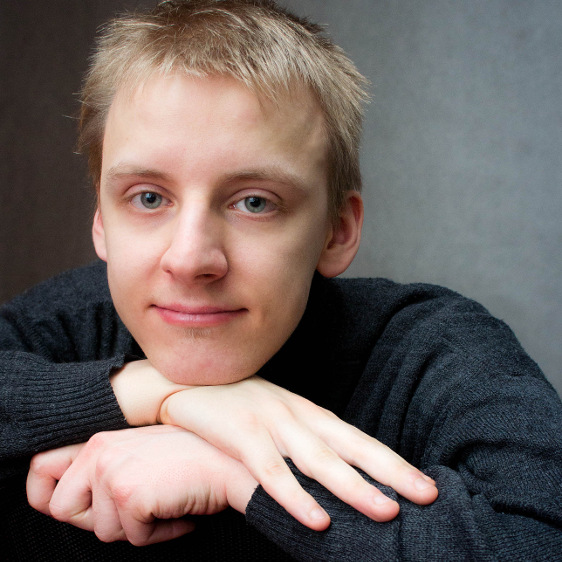
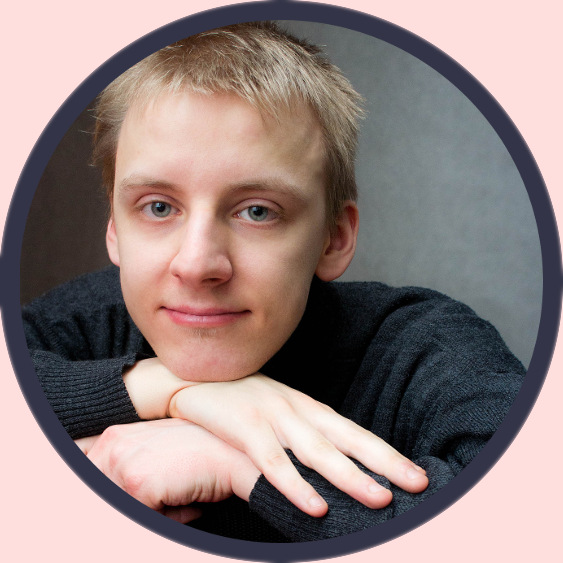
updates

diff --git a/src/index.html b/src/index.html
@@ -51,22 +51,23 @@
     <div class='about-us'>
       <div class='container'>
           <h2 class='title right'><span class='first'>A</span>bout the <span class='second'>e</span>vent</h2>
-          <p>Monadic Party is a five-days long festival of Haskell learning and teaching. Our vision is to teach in depth, in a way impossible at a conference. Because of the additional time at our disposal we can get deeper into each topic than just a usual talk slot to show not only the surface but a larger part of the story behind the subject. The size will be limited and capped at fifty attendees to ensure a good learning experience.</p>
+          <p>Monadic Party is a five-days long Haskell summer school. Our vision is to teach in depth with each talk spanning multiple sessions. Because of the additional time at our disposal we can get deeper into each topic to show a larger part of the story behind the subject. The size will be capped at fifty attendees to provide you with a good learning experience.</p>
 
-          <p>We will have two tracks, one for programmers that aren't experienced in Haskell and would like to learn it from the basic concepts. We will show you the language over the course of the five days, intensly and in depth. The other track is for people already familiar with the language and will present a selection of talks and workshops on a variety of topics. The final talk titles will be announced after our call for speakers closes at the end of Febuary.</p>
+          <p>We will have two tracks, one for programmers that aren't experienced in Haskell and would like to learn it from the basic concepts. The other track is for people already familiar with the language and will present a selection of talks and workshops on a variety of topics. We will announce the list of topics after our call for speakers closes at the end of Febuary.</p>
 
-          <p>By organizing it in Poznan we can keep the ticket cost at a low level for such a long event, while having the school in a beautiful city with a great nightlife and a lot of things to do. The venue is a gorgeous recently restored old building at <a href='http://mlynska12.pl/' target='_blank'>Młyńska 12</a> where we have the whole highest floor at our disposal. So the only thing you need is a ticket, laptop and a place to sleep and you're good to go. Catered lunch and tea or coffee is included in the ticket price.</p>
+          <p>We chose Poznan to host the summer school because of its architecture, culture and nightlife. The venue is a recently restored lovely old building at <a href='http://mlynska12.pl/' target='_blank'>Młynska 12</a> where we have the whole highest floor at our disposal. So the only thing you need is a ticket, laptop and a place to sleep and you're good to go. Catered lunch, tea and coffee is included in the ticket price.</p>
 
           <h2 class='title left'><span class='first'>G</span>etting <span class='second'>T</span>here</h2>
 
-          <p>We will hold the summer school at <a href='https://goo.gl/maps/DMHV2GN2Nk12' target='_blank'>Młyńska 12</a>, so any accommodation in the city center should be at a walkable distance from the venue. Depending on your budget and preferences, you can find places to stay on <a href='https://www.booking.com/searchresults.en-gb.html?label=gen173nr-1FCAEoggJCAlhYSDNYBGi2AYgBAZgBLsIBA3gxMcgBDNgBAegBAfgBC5ICAXmoAgM&lang=en-gb&sid=f338025b520e3faeca40c7db96132554&sb=1&src=index&src_elem=sb&error_url=https%3A%2F%2Fwww.booking.com%2Findex.en-gb.html%3Flabel%3Dgen173nr-1FCAEoggJCAlhYSDNYBGi2AYgBAZgBLsIBA3gxMcgBDNgBAegBAfgBC5ICAXmoAgM%3Bsid%3Df338025b520e3faeca40c7db96132554%3Bsb_price_type%3Dtotal%26%3B&ss=Pozna%C5%84&ssne=Pozna%C5%84&ssne_untouched=Pozna%C5%84&dest_id=-523642&dest_type=city&checkin_monthday=10&checkin_month=6&checkin_year=2018&checkout_monthday=15&checkout_month=6&checkout_year=2018&group_adults=1&group_children=0&no_rooms=1&genius_rate=1&from_sf=1' target='_blank'>Booking.com</a>, <a href='https://www.hostelworld.com/search?search_keywords=Poznan%2C+Poland&country=Poland&city=Poznan&date_from=2018-06-10&date_to=2018-06-15&number_of_guests=1' target='_blank'>Hostelworld</a> or <a href='https://pl.hotels.com/search.do?resolved-location=CITY%3A1053596%3AUNKNOWN%3AUNKNOWN&destination-id=1053596&q-destination=Pozna%C5%84,%20Polska&q-check-in=2018-06-10&q-check-out=2018-06-15&q-rooms=1&q-room-0-adults=2&q-room-0-children=0' target='_blank'>Hotels.com</a>. If you feel like you need some guidance on choosing a place to stay, do email us at <a href='mailto:team@monadic.party'>team@monadic.party</a>.</p>
+          <p>We will hold the summer school at <a href='https://goo.gl/maps/DMHV2GN2Nk12' target='_blank'>Młynska 12</a>, so any accommodation in the city center should be at a walkable distance from the venue. Depending on your budget and preferences, you can find places to stay on <a href='https://www.booking.com/searchresults.en-gb.html?label=gen173nr-1FCAEoggJCAlhYSDNYBGi2AYgBAZgBLsIBA3gxMcgBDNgBAegBAfgBC5ICAXmoAgM&lang=en-gb&sid=f338025b520e3faeca40c7db96132554&sb=1&src=index&src_elem=sb&error_url=https%3A%2F%2Fwww.booking.com%2Findex.en-gb.html%3Flabel%3Dgen173nr-1FCAEoggJCAlhYSDNYBGi2AYgBAZgBLsIBA3gxMcgBDNgBAegBAfgBC5ICAXmoAgM%3Bsid%3Df338025b520e3faeca40c7db96132554%3Bsb_price_type%3Dtotal%26%3B&ss=Pozna%C5%84&ssne=Pozna%C5%84&ssne_untouched=Pozna%C5%84&dest_id=-523642&dest_type=city&checkin_monthday=10&checkin_month=6&checkin_year=2018&checkout_monthday=15&checkout_month=6&checkout_year=2018&group_adults=1&group_children=0&no_rooms=1&genius_rate=1&from_sf=1' target='_blank'>Booking.com</a>, <a href='https://www.hostelworld.com/search?search_keywords=Poznan%2C+Poland&country=Poland&city=Poznan&date_from=2018-06-10&date_to=2018-06-15&number_of_guests=1' target='_blank'>Hostelworld</a> or <a href='https://pl.hotels.com/search.do?resolved-location=CITY%3A1053596%3AUNKNOWN%3AUNKNOWN&destination-id=1053596&q-destination=Pozna%C5%84,%20Polska&q-check-in=2018-06-10&q-check-out=2018-06-15&q-rooms=1&q-room-0-adults=2&q-room-0-children=0' target='_blank'>Hotels.com</a>. If you feel like you need some guidance on choosing a place to stay, do email us at <a href='mailto:team@monadic.party'>team@monadic.party</a>.</p>
 
           <p>In terms of travel, <a href='https://wizzair.com' target='_blank'>WizzAir</a>, <a href='https://www.ryanair.com/gb/en/' target='_blank'>Ryanair</a>, <a href='https://www.lufthansa.com/uk/en/Homepage' target='_blank'>Lufthansa</a> and <a href='http://www.lot.com/gb/en' target='_blank'>LOT</a> all have a dense network of daily connections to and from the city. It would be wise to try a flight aggregator like <a href='https://www.momondo.com/' target='_blank'>Momondo</a> or <a href='https://www.google.com/flights/' target='_blank'>Google Flights</a>. There are frequent train connections from Germany and inside Poland, so please choose these if you want to travel in a way more friendly to the environment. Bus transport is also an option on <a href='http://www.polskibus.com/en/index.htm' target='_blank'>PolskiBus</a> which operates a lot of routes in the region.</p>
 
           <p>Inside the city of Poznan there is a good <a href='http://www.ztm.poznan.pl/en/#planner' target='_blank'>public transporation system</a> with a dense network throughout the city.</p>
 
               <h2 class='title right'><span class='first'>A</span>bout <span class='second'>u</span>s</h2>
-              <p>We're Ewa Krużyńska and Michał Kawalec and we really love functional programming. We started a Haskell meetup, <a href='https://www.meetup.com/Monadic-Warsaw/'>Monadic Warsaw</a>, a couple of years ago and it grew into one of the biggest Haskell events in central Europe. While such chances to meet other programmers are really useful for building a community, we wanted to also create a unique event — something where people can really learn about their tools in depth, where they can explore the language and talk to mentors and other participants — and all that at an affordable price.</p>
+              <p>We're the organizers of <a href='https://www.meetup.com/Monadic-Warsaw/' target='_blank'>Monadic Warsaw</a>, Ewa Kruzynska and Michal Kawalec. With over five hundred members it grew up to be one of the biggest Haskell meetups in Europe. We've had speakers and visitors from all over the world and we also run a <a href='https://www.youtube.com/channel/UCCeiYYR2fCXarkfSqqFBwuA' target='_blank'>YouTube channel</a>. It is our way of popularizing functional programming and building a community of interested people. We are sure the summer school will give us as much fun as Monadic Warsaw.
+              </p>
           </div>
       </div>
 
@@ -74,22 +75,22 @@
         <div class='container'>
             <div class='row'>
                 <div class='col-4 column'>
-                    <h3 class='name'>Julie Moronuki</h3>
                     <img class='photo' src='/julie.jpg' />
+                    <h3 class='name'><span class='first'>J</span>ulie <span class='second'>M</span>oronuki</h3>
                     <div class='bio'>
                     Julie Moronuki is one of the authors of Haskell Programming from First Principles. She has a master's degree in linguistics and taught English, English as a second language, philosophy, linguistics, and medical transcription for over ten years. When she is not writing Haskell, writing about Haskell, or teaching Haskell at a local meetups, she homeschools her two children, pickles everything in sight, and adopts too many pets.
                     </div>
                 </div>
                 <div class='col-4 column'>
-                    <h3 class='name'>Chris Martin</h3>
                     <img class='photo' src='/chris.jpg' />
+                    <h3 class='name'><span class='first'>C</span>hris <span class='second'>M</span>artin</h3>
                     <div class='bio'>
 Chris Martin has a master's degree in computer science from Georgia Tech. He has worked for GTRI, was cofounder and CTO of Fold, and worked for Hijro writing a blockchain in Haskell. He has recently founded Typeclass Consulting with Julie Moronuki and is also writing a book, The Joy of Haskell, with her. Chris tries to increase public awareness of NixOS and the power of good documentation. He enjoys barefoot running, sour beers, and arguing with Julie about math.
                     </div>
                 </div>
                 <div class='col-4 column'>
-                    <h3 class='name'>Krzysztof Gogolewski</h3>
                     <img class='photo' src='/krzysiek.jpg' />
+                    <h3 class='name'><span class='first'>K</span>rzysztof <span class='second'>G</span>ogolewski</h3>
                     <div class='bio'>
 Haskell user since 2008, currently software engineer at Codility. Studied mathematics and computer science and University of Warsaw and Ecole Polytechnique. Enjoys finding bugs in GHC.
                     </div>
@@ -97,15 +98,15 @@ Haskell user since 2008, currently software engineer at Codility. Studied mathem
             </div>
             <div class='row'>
                 <div class='col-4 column'>
-                    <h3 class='name'>Carter Schonwald</h3>
-                    <img class='photo' src='http://via.placeholder.com/294x294' />
+                    <img class='photo' src='/marcin.jpg' />
+                    <h3 class='name'><span class='first'>C</span>arter <span class='second'>S</span>chonwald</h3>
                     <div class='bio'>
                         Orci varius natoque penatibus et magnis dis parturient montes, nascetur ridiculus mus. Nullam sagittis vehicula ligula, non fringilla purus ultricies aliquam. Aliquam cursus, lacus et pellentesque scelerisque, metus ex aliquam ligula, eget commodo risus arcu et arcu. Cras ullamcorper, mauris ultricies fermentum tempus, dui orci rutrum tortor, nec egestas ligula elit quis lacus. Pellentesque habitant morbi tristique senectus et netus et malesuada fames ac turpis egestas. In hac habitasse platea.
                     </div>
                 </div>
                 <div class='col-4 column'>
-                    <h3 class='name'>Marcin Szamotulski</h3>
-                    <img class='photo' src='http://via.placeholder.com/294x294' />
+                    <img class='photo' src='/marcin.jpg' />
+                    <h3 class='name'><span class='first'>M</span>arcin <span class='second'>S</span>zamotulski</h3>
                     <div class='bio'>
 Marcin is a mathematician and a functional programmer.  He did research in
 Abstract Algebra and Category theory in the crossroads of Galois theory.
@@ -116,8 +117,8 @@ blockchain technology.
                     </div>
                 </div>
                 <div class='col-4 column'>
-                    <h3 class='name'>Michał Kawalec</h3>
-                    <img class='photo' src='/michal.jpg' />
+                    <img class='photo' src='/michal.png' />
+                    <h3 class='name'><span class='first'>M</span>ichał <span class='second'>K</span>awalec</h3>
                     <div class='bio'>
                        Michał is an engineer of many trades. He works at X-Team where he is responsible for libraries and architecture of League of Legends, and, previously he had worked with startups, supercomputers, and particle detectors. At nights, he writes Haskell libraries and runs the biggest Haskell Meetup in Poland. Talk to him about riding on two wheels ;)
                     </div>
@@ -133,7 +134,7 @@ blockchain technology.
             
             <p>Do you want to lead workshops at the summer school? We need you to be a speaker at our event.</p>
             
-            <p>We are looking for people interested in leading workshops spanning three to six slots on various topics in the Haskell ecosystem. Slots take fifty minutes and can be allocated together or spread over a couple days, depending on your preference. We will be having two tracks, a beginners one that aims to cater to programmers that might not have experience with Haskell and advanced for people who know and understand it and want to learn new things. We will cover your travel and accommodation costs.</p>
+            <p>We are looking for people interested in leading workshops spanning three to six slots on various topics in the Haskell ecosystem. Slots take fifty minutes and can be allocated together or spread over a couple days, depending on your preference. We will be having two tracks, a beginners one that aims to cater to programmers that might not have experience with Haskell and advanced for people who know and understand it and want to learn new concepts. We will cover your travel and accommodation costs.</p>
 
             <h2>
                 <a class="button button-primary" href="https://docs.google.com/forms/d/e/1FAIpQLScKD2T-5m8q4CahA-TBhdMH43ziTPv7op9j4_rcY9bZf_DWRg/viewform?usp=sf_link" target='_blank'>Submit a proposal</a>
@@ -143,11 +144,12 @@ blockchain technology.
 
     <div class='sign-up'>
         <div class='container'>
-            Eventbrite box goes here
+
+<div style="width:100%; text-align:left;"><iframe src="https://eventbrite.com/tickets-external?eid=41355832408&ref=etckt" frameborder="0" width="100%" vspace="0" hspace="0" marginheight="5" marginwidth="5" scrolling="auto" allowtransparency="true"></iframe><div style="font-family:Helvetica, Arial; font-size:12px; padding:10px 0 5px; margin:2px; width:100%; text-align:left;" ></div></div>
 
             <div class='col-12 column email'>
                 Got a question? Email us at
-                <a href='mailto:team@monad.party'>team@monad.party</a>
+                <a href='mailto:team@monadic.party'>team@monadic.party</a>
             </div>
         </div>
     </div>

diff --git a/src/style.less b/src/style.less
@@ -112,15 +112,27 @@ a {
 .speakers {
   background-color: @color-3;
 
+  .container {
+    padding-top: 21px;
+  }
+
   .container .column {
+    margin-top: 18px;
     margin-bottom: 25px;
 
     img {
-      width: 100%;
+      width: 60%; 
+      margin-left: 20%;
     }
 
     .name {
-      margin-bottom: 15px;
+      margin-top: 15px;
+
+      & * { font-family: inherit; }
+
+      .first { color: @title-first; }
+      .second { color: @title-second; }
+
     }
 
     .bio {
@@ -146,13 +158,14 @@ a {
 
   h1 {
     margin-bottom: 0;
+    color: #333447;
   }
 
   h2 a {
     border: 1px solid #333447;
     padding: 10px;
     text-decoration: none;
-    background-color: #868687;
+    background-color: #333447;
     color: #fff;
     font-family: 'Share Tech Mono', monospace;
   }
@@ -165,8 +178,19 @@ a {
 .sign-up {
   background-color: @color-5;
   min-height: 50vh;
+  padding-top: 50px;
+  padding-bottom: 50px;
 
   .email {
     color: @color-darker;
+    text-align: center;
+  }
+
+  iframe {
+    height: 500px;
+
+    @media (max-width: @mobile-width) {
+      height: 630px;
+    }
   }
 }
